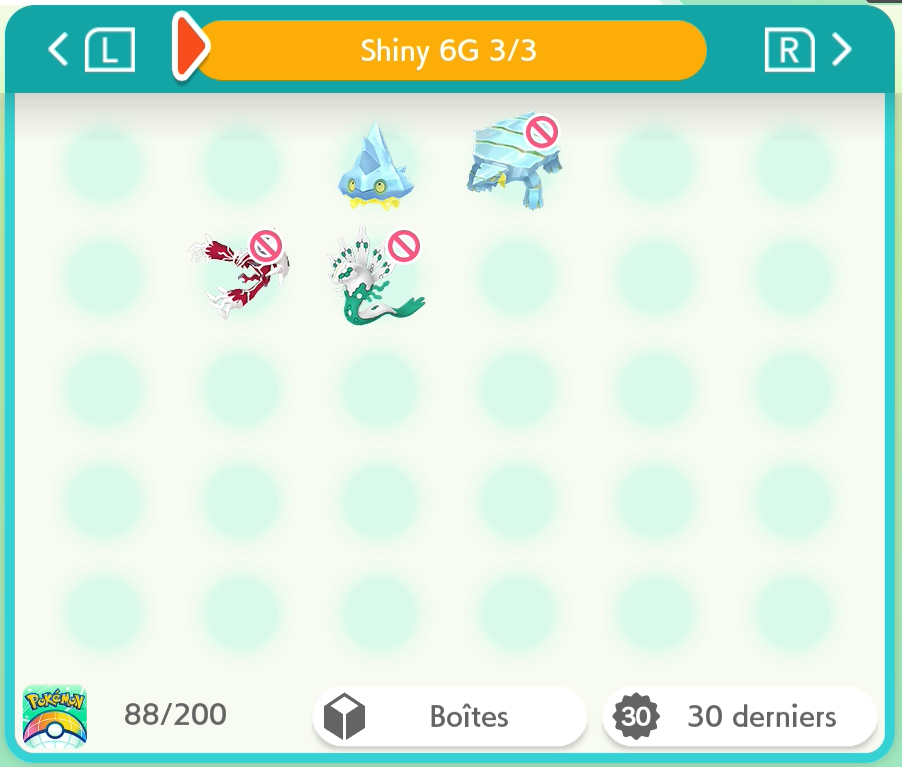
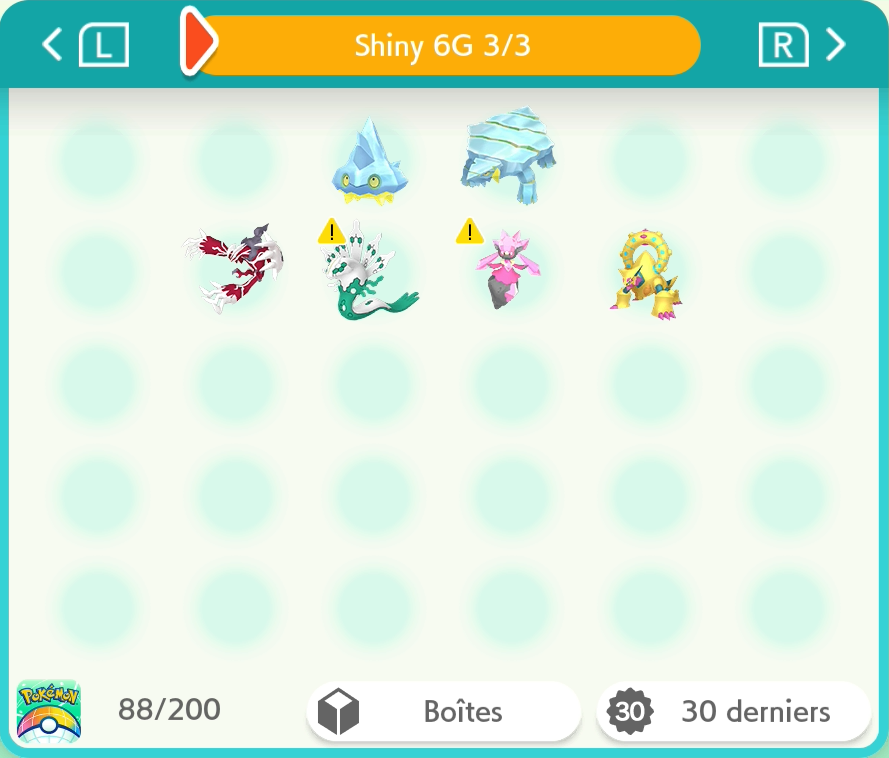
6G : Volcanion & Diancie

diff --git a/README.md b/README.md
@@ -2,8 +2,8 @@
 
 Pokémon-Elément-Sh -> <a href="https://www.pokemon-element-sh.fr/profil/karyno21" target="_blank">Karyno21</a>
 
-↓ Dernière Update le 23/09/2026 à 21h21 ↓
-### Dex National [279/999] +18
+↓ Dernière Update le 26/09/2026 à 21h15 ↓
+### Dex National [281/999] +20
 
 | Gen | Prog | Notes |
 |:--:|:--:|---|
@@ -12,7 +12,7 @@ Pokémon-Elément-Sh -> <a href="https://www.pokemon-element-sh.fr/profil/karyno
 |3G|22/135|+1 Spinda|
 |4G|20/107||
 |5G|29/154|+1 Genesect (JP Event)|
-|6G|25/70|+3 Amagara, Dragmara & Ptyranidur|
+|6G|27/70|+5 Amagara, Dragmara, Ptyranidur, Volcanion (HOME) & Diancie (JP Event)|
 |7G|19/84|+3 Type:0, Silvallié & Mandrillon|
 |8G|32/90||
 |9G|46/108|+1 Amassel|
